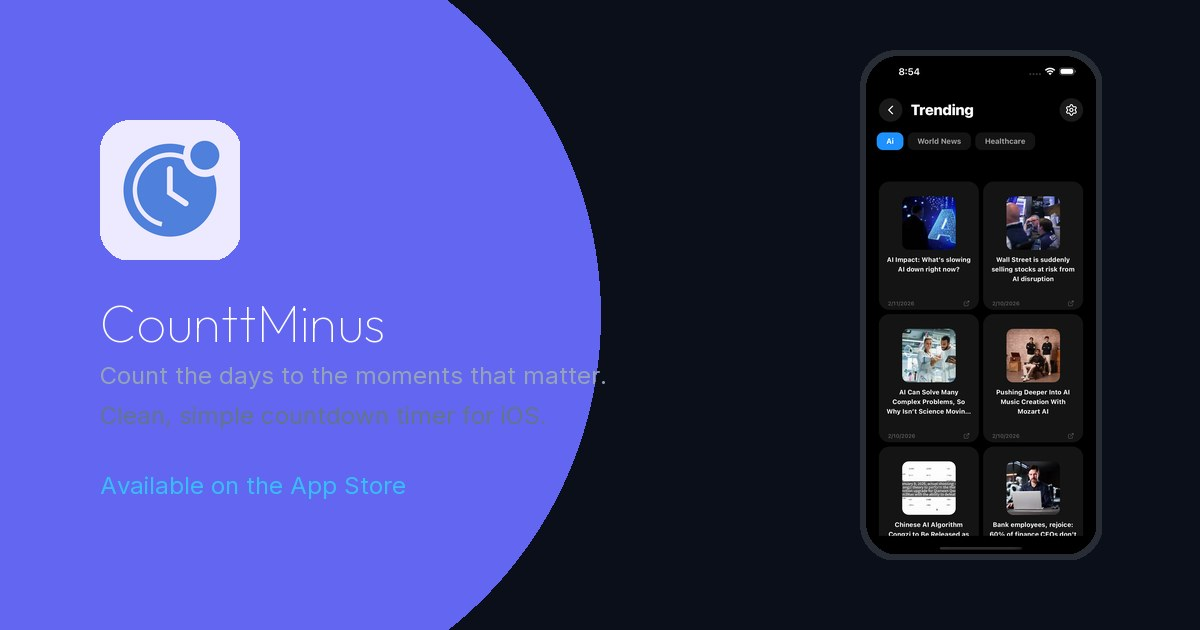
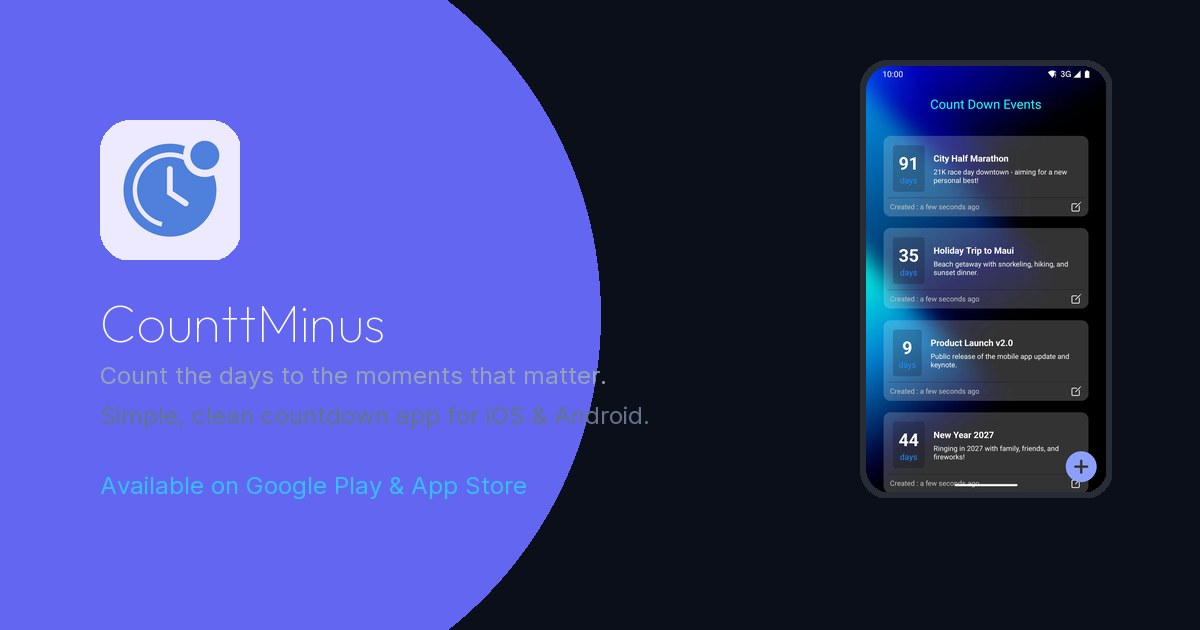
Use official Play Store screenshots for device showcase and og-image

diff --git a/index.html b/index.html
@@ -32,8 +32,8 @@
     <link rel="manifest" href="site.webmanifest">
 
     <!-- Preload hero screenshot (LCP on desktop) -->
-    <link rel="preload" as="image" media="(min-width: 1024px)" href="app_screens/01-event-list.webp"
-        imagesrcset="app_screens/01-event-list-600.webp 600w, app_screens/01-event-list-900.webp 900w, app_screens/01-event-list.webp 1282w"
+    <link rel="preload" as="image" media="(min-width: 1024px)" href="app_screens/01-events-list.webp"
+        imagesrcset="app_screens/01-events-list-600.webp 600w, app_screens/01-events-list-900.webp 900w, app_screens/01-events-list.webp 1080w"
         imagesizes="292px" type="image/webp" fetchpriority="high">
 
     <!-- Open Graph / Facebook -->
@@ -296,9 +296,9 @@
                             <div class="iphone mx-auto shadow-2xl">
                                 <div class="iphone-island" aria-hidden="true"></div>
                                 <div class="iphone-screen">
-                                    <img id="hero-phone-img" src="app_screens/01-event-list.webp"
-                                        srcset="app_screens/01-event-list-600.webp 600w, app_screens/01-event-list-900.webp 900w, app_screens/01-event-list.webp 1282w"
-                                        sizes="292px" alt="CounttMinus event list screen"
+                                    <img id="hero-phone-img" src="app_screens/01-events-list.webp"
+                                        srcset="app_screens/01-events-list-600.webp 600w, app_screens/01-events-list-900.webp 900w, app_screens/01-events-list.webp 1080w"
+                                        sizes="292px" alt="CounttMinus events list screen"
                                         class="w-full h-full object-cover transition-opacity duration-300">
                                 </div>
                             </div>
@@ -306,25 +306,29 @@
                             <!-- Screen Selector Tabs -->
                             <div class="mt-8 flex flex-wrap justify-center gap-2" role="tablist"
                                 aria-label="App screen previews">
-                                <button type="button" role="tab" aria-selected="true" data-screen="01-event-list"
+                                <button type="button" role="tab" aria-selected="true" data-screen="01-events-list"
                                     class="screen-tab px-3.5 py-1.5 rounded-full text-xs font-medium border border-[var(--surface-border)] bg-[var(--surface-card)] text-[var(--text-heading)] transition-all cursor-pointer">
-                                    Event List
+                                    Events List
                                 </button>
-                                <button type="button" role="tab" aria-selected="false" data-screen="02-create-countdown"
+                                <button type="button" role="tab" aria-selected="false" data-screen="02-create-event"
                                     class="screen-tab px-3.5 py-1.5 rounded-full text-xs font-medium border border-[var(--surface-border)] bg-[var(--surface-card)] text-[var(--text-main)] opacity-70 hover:opacity-100 transition-all cursor-pointer">
                                     Add Event
                                 </button>
-                                <button type="button" role="tab" aria-selected="false" data-screen="03-event-detail"
+                                <button type="button" role="tab" aria-selected="false" data-screen="03-date-picker"
                                     class="screen-tab px-3.5 py-1.5 rounded-full text-xs font-medium border border-[var(--surface-border)] bg-[var(--surface-card)] text-[var(--text-main)] opacity-70 hover:opacity-100 transition-all cursor-pointer">
-                                    Countdown
+                                    Date Picker
                                 </button>
-                                <button type="button" role="tab" aria-selected="false" data-screen="04-live-timer"
+                                <button type="button" role="tab" aria-selected="false" data-screen="04-countdown-details"
                                     class="screen-tab px-3.5 py-1.5 rounded-full text-xs font-medium border border-[var(--surface-border)] bg-[var(--surface-card)] text-[var(--text-main)] opacity-70 hover:opacity-100 transition-all cursor-pointer">
-                                    Live Timer
+                                    Live Countdown
                                 </button>
-                                <button type="button" role="tab" aria-selected="false" data-screen="05-milestones"
+                                <button type="button" role="tab" aria-selected="false" data-screen="05-edit-event"
                                     class="screen-tab px-3.5 py-1.5 rounded-full text-xs font-medium border border-[var(--surface-border)] bg-[var(--surface-card)] text-[var(--text-main)] opacity-70 hover:opacity-100 transition-all cursor-pointer">
-                                    Milestones
+                                    Edit Event
+                                </button>
+                                <button type="button" role="tab" aria-selected="false" data-screen="06-empty-state"
+                                    class="screen-tab px-3.5 py-1.5 rounded-full text-xs font-medium border border-[var(--surface-border)] bg-[var(--surface-card)] text-[var(--text-main)] opacity-70 hover:opacity-100 transition-all cursor-pointer">
+                                    Clean State
                                 </button>
                             </div>
                         </div>
@@ -940,7 +944,7 @@
                 phoneImg.style.opacity = '0';
                 setTimeout(() => {
                     phoneImg.src = `app_screens/${screenName}.webp`;
-                    phoneImg.srcset = `app_screens/${screenName}-600.webp 600w, app_screens/${screenName}-900.webp 900w, app_screens/${screenName}.webp 1282w`;
+                    phoneImg.srcset = `app_screens/${screenName}-600.webp 600w, app_screens/${screenName}-900.webp 900w, app_screens/${screenName}.webp 1080w`;
                     phoneImg.style.opacity = '1';
                 }, 150);
             }
